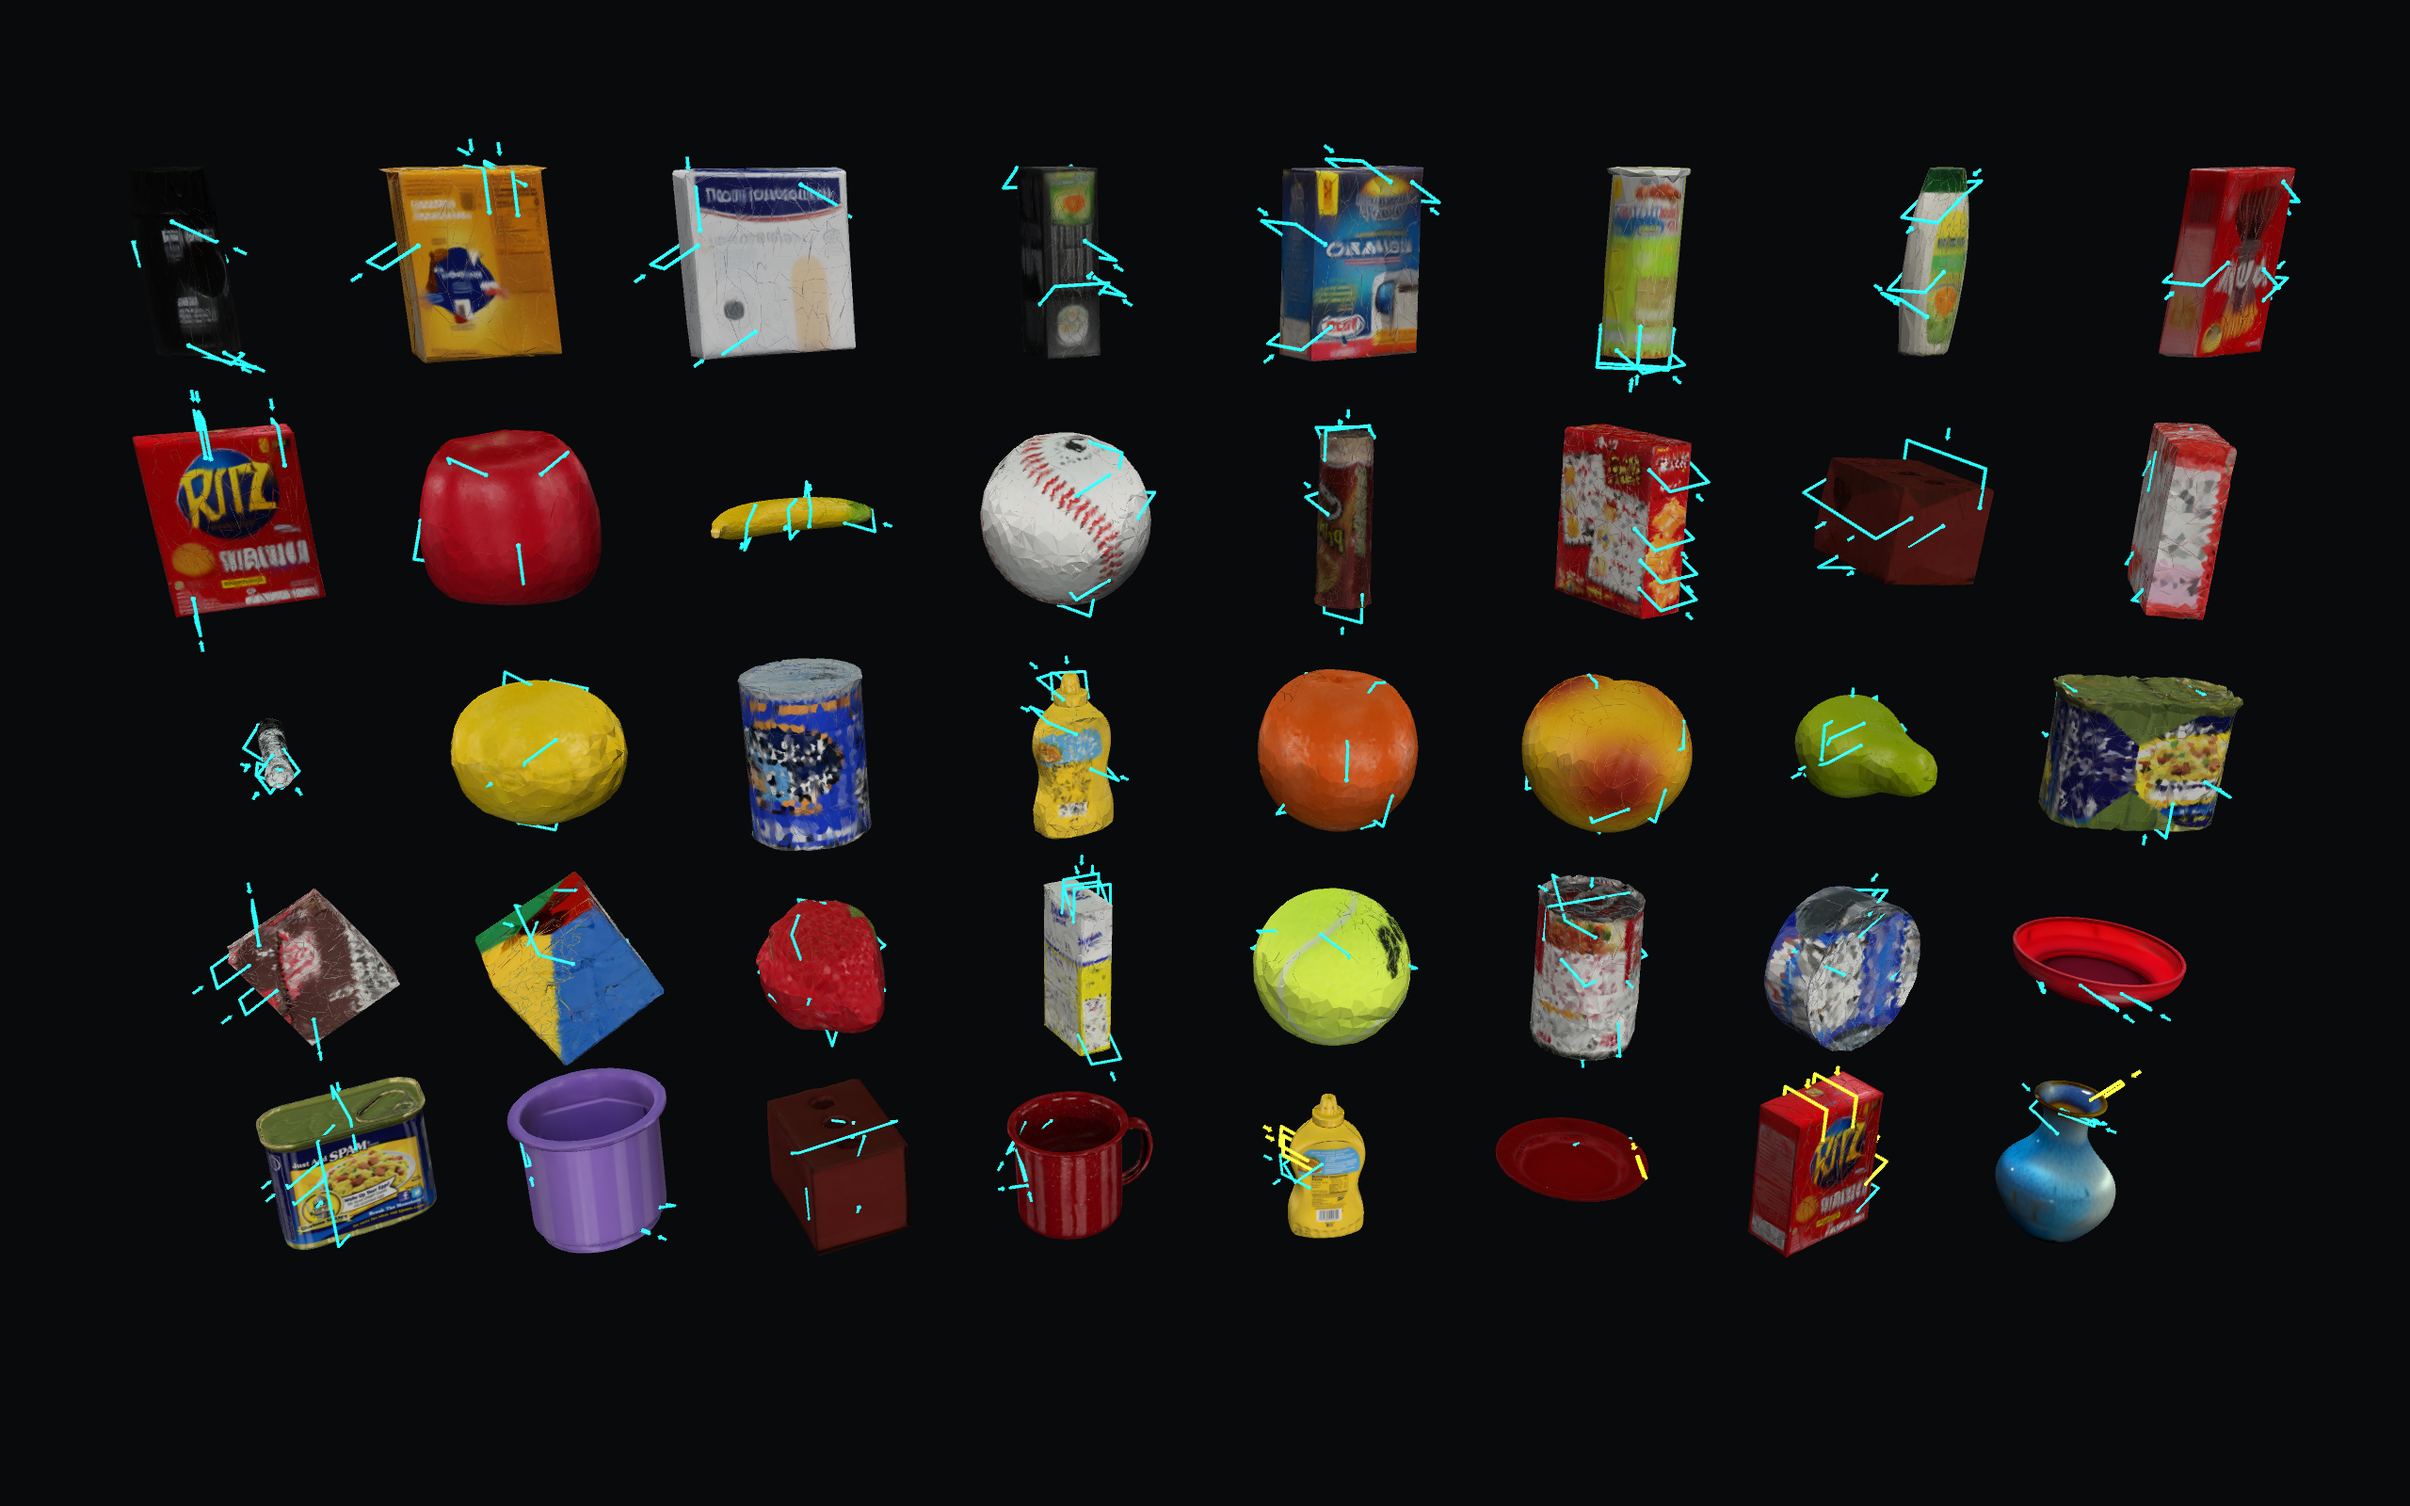
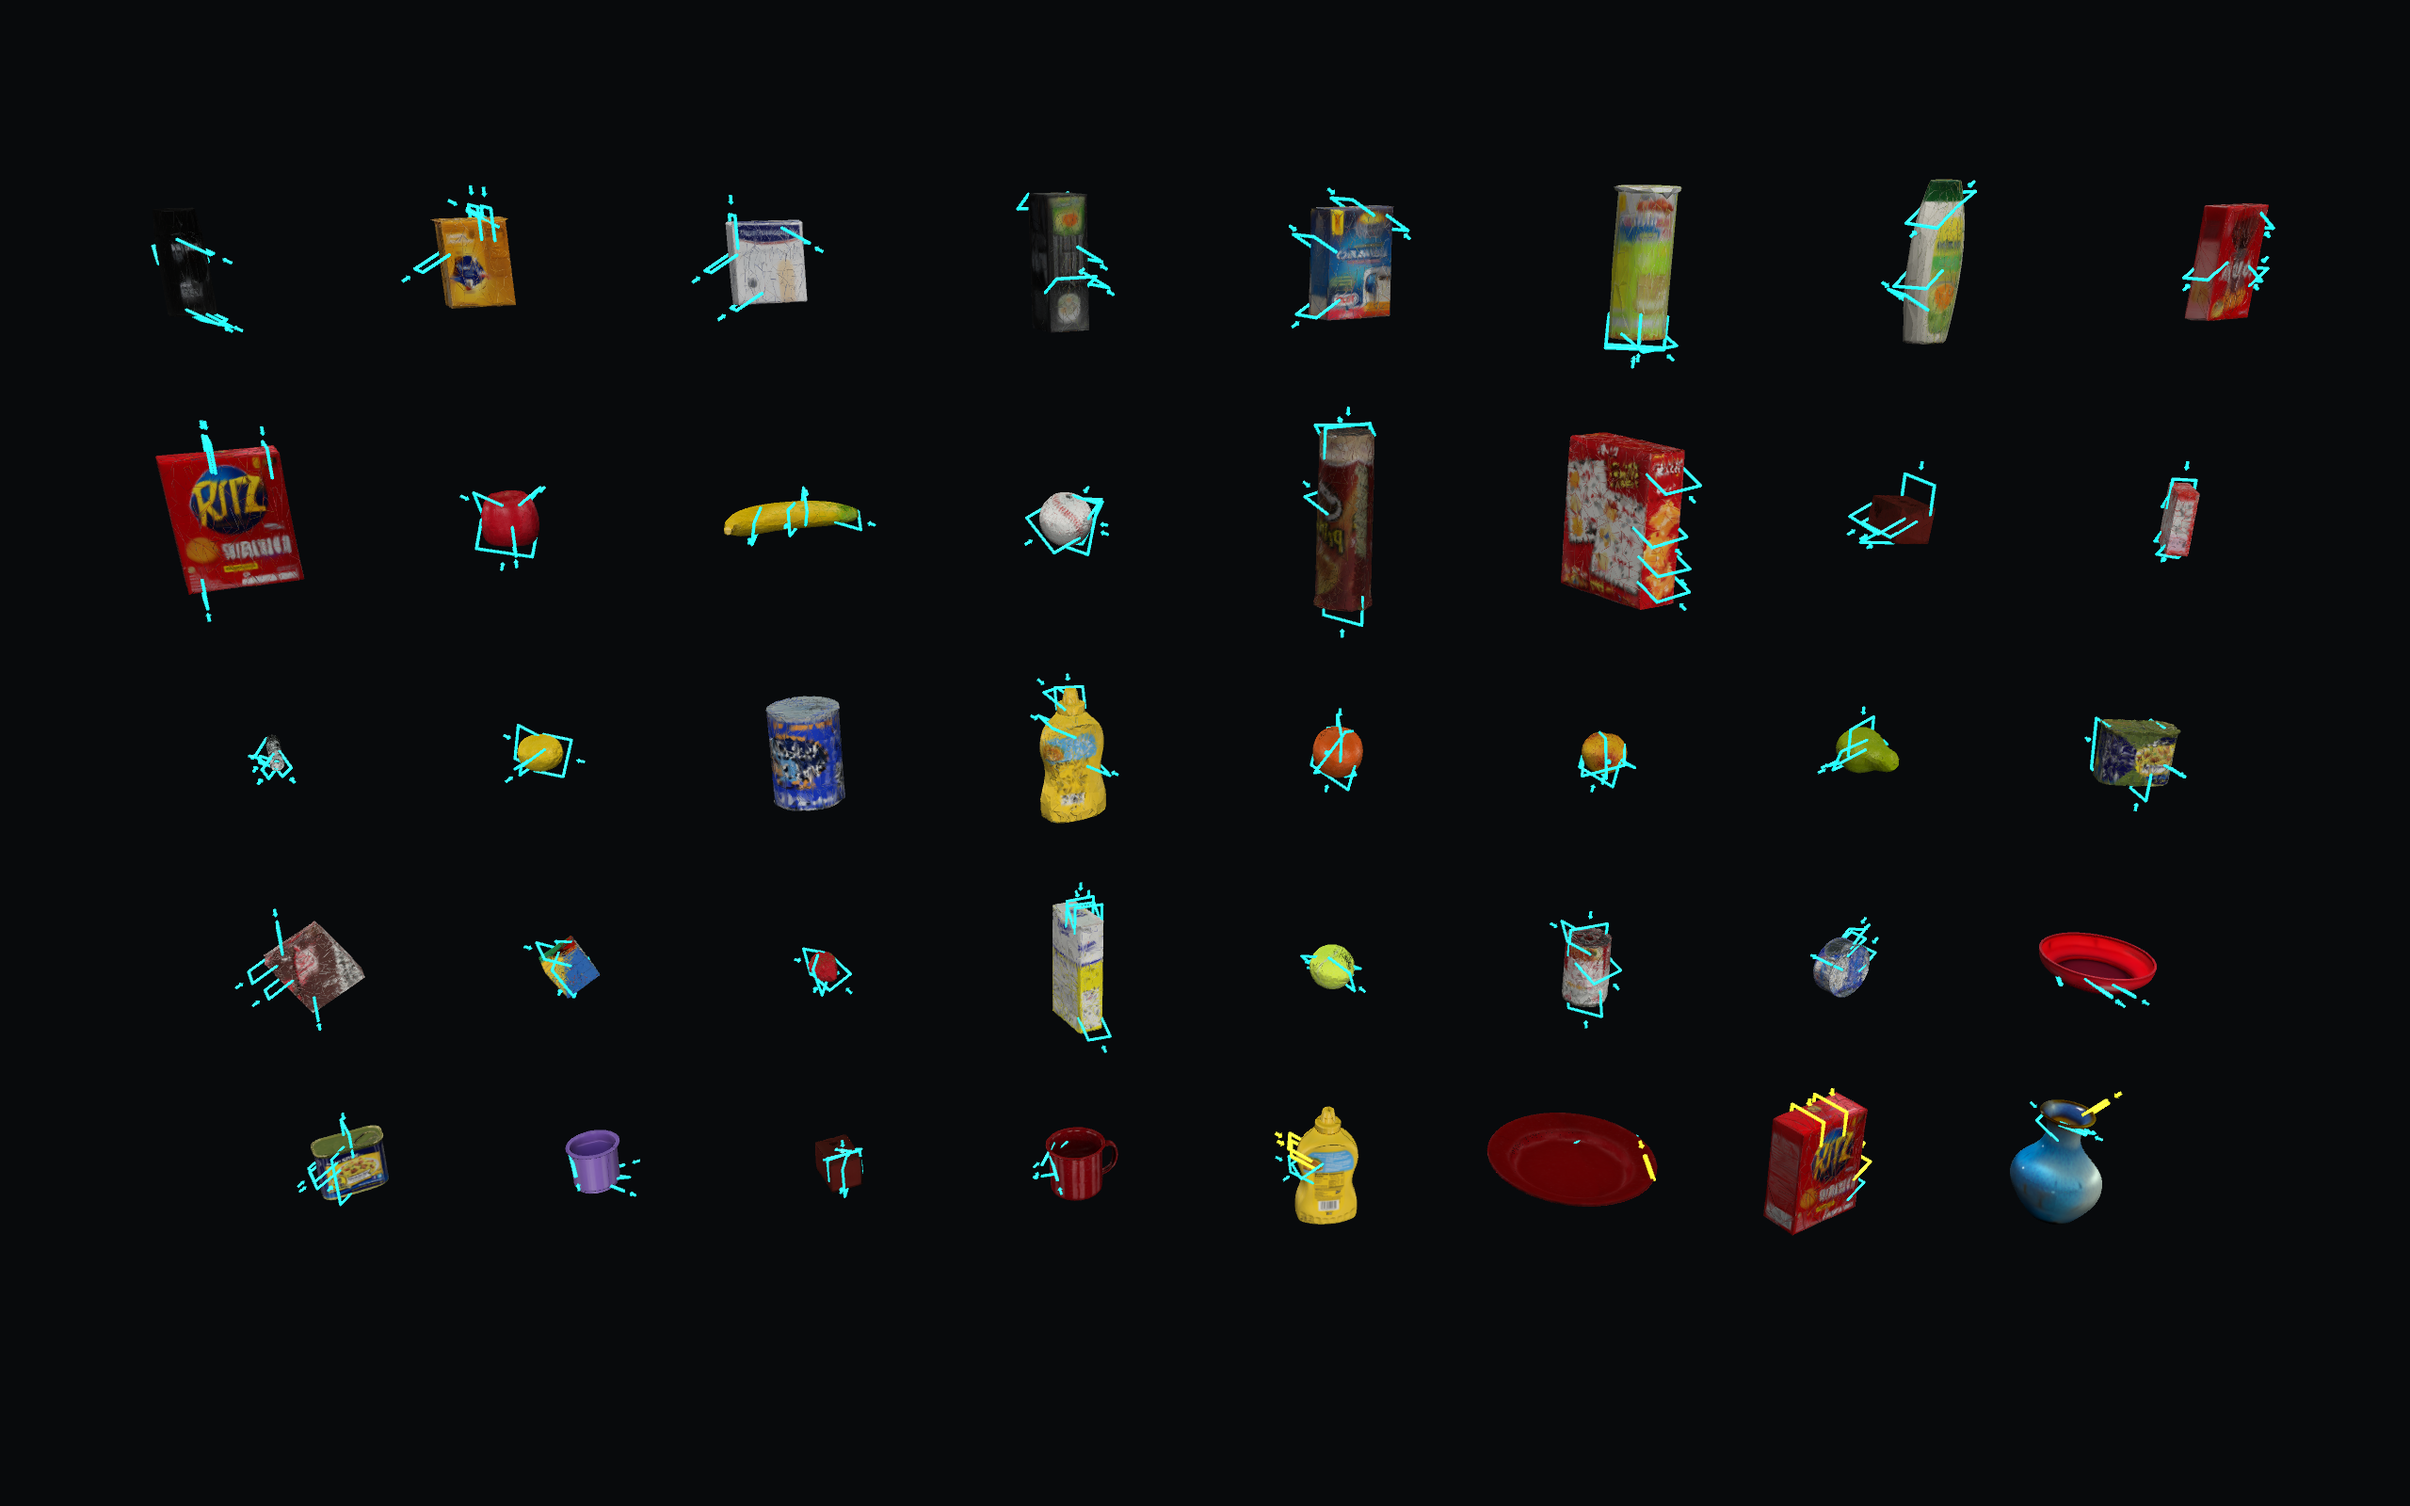
fix: preserve metric gallery scale and enforce Franka opening limits

diff --git a/examples/grasp_gallery.py b/examples/grasp_gallery.py
@@ -34,7 +34,7 @@ from grasp_gallery_assets import (  # noqa: E402
     prepare_item,
     scene_xml,
 )
-from grasp_gallery_sampling import sample_batch, unique_grasps  # noqa: E402
+from grasp_gallery_sampling import FRANKA_MAX_OPENING_M, sample_batch, unique_grasps  # noqa: E402
 
 
 class Gallery:
@@ -42,7 +42,7 @@ class Gallery:
                  jaw_width=.08, visible=32, seed=0, gui=True, grid=False):
         self.items, self.fps, self.seconds, self.grid = items, fps, seconds, grid
         self.positions = grid_layout(len(items)) if grid else np.zeros((len(items), 3))
-        self.batches, self.batch_size, self.jaw_width = batches, batch_size, jaw_width
+        self.batches, self.batch_size, self.jaw_width = batches, batch_size, min(jaw_width, FRANKA_MAX_OPENING_M)
         self.visible, self.seed = visible, seed
         self.model = mj.MjModel.from_xml_string(scene_xml(items, cache, grid=grid))
         self.data = mj.MjData(self.model)
@@ -127,8 +127,8 @@ class Gallery:
                     break
             indices.reverse()
             self.visibility_cache[index] = (grasps, indices)
-        depth = min(.04, float(item.extents.max())*.22)*item.scale
-        stem = min(.025, float(item.extents.max())*.15)*item.scale
+        depth = .04*item.scale
+        stem = .025*item.scale
         for i in indices:
             g = grasps[i]
             pose = np.asarray(g["pose"])
@@ -154,7 +154,7 @@ class Gallery:
                 if scene.ngeom >= scene.maxgeom:
                     return
                 geom = scene.geoms[scene.ngeom]
-                mj.mjv_initGeom(geom, mj.mjtGeom.mjGEOM_SPHERE, np.array([.0032, 0, 0]), point,
+                mj.mjv_initGeom(geom, mj.mjtGeom.mjGEOM_SPHERE, np.array([.002, 0, 0]), point,
                                 np.eye(3).reshape(-1), np.asarray(color, np.float32))
                 geom.emission = 1.
                 geom.category = mj.mjtCatBit.mjCAT_DECOR
@@ -182,6 +182,7 @@ class Gallery:
         return {"asset": str(item.path.relative_to(ROOT)), "label": item.label,
                 "source_extents_m": item.extents.tolist(), "display_scale": item.scale,
                 "unique_candidates": len(self.grasps), "batches": self.completed_batches,
+                "max_opening_m": max((g["width"] for g in self.grasps), default=None),
                 "rotation_degrees": float(np.degrees(self.angle)), "error": error}
 
     def run(self, start=0, once=False):
@@ -286,6 +287,7 @@ class GridGallery(Gallery):
         return {"asset": str(item.path.relative_to(ROOT)), "label": item.label,
                 "source_extents_m": item.extents.tolist(), "display_scale": item.scale,
                 "unique_candidates": len(self.candidates[index]), "batches": self.batch_counts[index],
+                "max_opening_m": max((g["width"] for g in self.candidates[index]), default=None),
                 "rotation_degrees": float(np.degrees(self.angle)), "error": self.errors[index]}
 
     def run(self, start=0, once=False):
@@ -370,9 +372,11 @@ def main():
     parser.add_argument("--snapshot", type=Path)
     parser.add_argument("--cache", type=Path, default=Path(tempfile.gettempdir())/"grasp-sampler-gallery")
     args = parser.parse_args()
-    if any(value <= 0 for value in (args.seconds, args.fps, args.batches, args.batch_size,
+    if any(not np.isfinite(value) or value <= 0 for value in (args.seconds, args.fps, args.batches, args.batch_size,
                                     args.jaw_width, args.visible_grasps)):
         parser.error("Timing, sampling and jaw-width values must be positive")
+    if args.jaw_width > FRANKA_MAX_OPENING_M:
+        parser.error("The Franka gripper cannot open beyond 0.08 m (80 mm)")
     paths = inventory()
     print(f"Preparing {len(paths)} original-color object assets", flush=True)
     items = [prepare_item(path, args.cache) for path in paths]
@@ -425,7 +429,8 @@ def main():
         if args.report:
             args.report.parent.mkdir(parents=True, exist_ok=True)
             args.report.write_text(json.dumps({"assets": gallery.records, "inventory_count": len(items),
-                "jaw_width_m": args.jaw_width, "physics_execution": False, "layout": args.layout,
+                "jaw_width_m": args.jaw_width, "franka_max_opening_m": FRANKA_MAX_OPENING_M,
+                "physics_execution": False, "layout": args.layout,
                 "scene_update_hz": ((len(gallery.frame_times)-1)/(gallery.frame_times[-1]-gallery.frame_times[0])
                                     if len(gallery.frame_times) > 1 else None),
                 "candidate_colors": {"violet": "primitive / OBB proposals", "cyan": "antipodal candidates",

diff --git a/tests/test_grasp_gallery.py b/tests/test_grasp_gallery.py
@@ -77,7 +77,7 @@ def test_grid_keeps_all_40_objects_visible_and_grasps_rotate_with_them(tmp_path,
     gallery.decorate(scene)
     assert scene.ngeom == 6
     center = gallery.data.mocap_pos[gallery.mocaps[7]].copy()
-    depth = min(.04, item.extents.max()*.22)*item.scale
+    depth = .04*item.scale
     np.testing.assert_allclose(scene.geoms[0].pos,
                                center+[0, .03*item.scale/2, -depth/2], atol=1e-7)
 
@@ -99,3 +99,36 @@ def test_restored_compact_appearances_are_colored_and_keep_geometry(monkeypatch)
         visual = trimesh.load(restored.with_suffix(".obj"), force="mesh", process=False)
         np.testing.assert_allclose(visual.bounds, original.bounds, atol=2e-7)
         assert len(visual.faces) == len(original.faces)
+
+
+def test_franka_hard_limit_filters_oversized_or_invalid_generator_outputs(tmp_path, monkeypatch):
+    from grasp_sampler import Grasp
+
+    _, sampling = modules(monkeypatch)
+    path = tmp_path/"box.glb"
+    trimesh.creation.box(extents=[.04, .05, .06]).export(path)
+    widths = [.04, .08, .08001, .12, float("nan"), -.01]
+    configured_limits = []
+
+    def generated(self, *args, **kwargs):
+        configured_limits.append(self.config.gripper_max_width)
+        return [Grasp(np.eye(4), "antipodal", width) for width in widths]
+
+    monkeypatch.setattr(sampling.GraspSampler, "generate", generated)
+    batch = sampling.sample_batch(str(path), 1, 32, .20, 42)
+    assert [g["width"] for g in batch] == [.04, .08]
+    batch = sampling.sample_batch(str(path), 1, 32, .05, 42)
+    assert [g["width"] for g in batch] == [.04]
+    assert configured_limits == [.08, .05]
+
+
+def test_display_keeps_source_metric_sizes_instead_of_normalizing_each_object(tmp_path, monkeypatch):
+    assets, _ = modules(monkeypatch)
+    for label, size in (("small", [.03, .04, .05]), ("large", [.12, .16, .20])):
+        path = tmp_path/(label+".glb")
+        trimesh.creation.box(extents=size).export(path)
+        item = assets.prepare_item(path, tmp_path/"cache")
+        assert item.scale == 1.
+        np.testing.assert_allclose(item.extents, [size[0], size[2], size[1]], atol=1e-7)
+        visual = trimesh.load(item.mesh_path, force="mesh", process=False)
+        np.testing.assert_allclose(visual.extents, item.extents, atol=1e-7)

diff --git a/examples/grasp_gallery_sampling.py b/examples/grasp_gallery_sampling.py
@@ -9,6 +9,8 @@ import trimesh
 
 from grasp_sampler import GraspConfig, GraspSampler, load_mesh
 
+FRANKA_MAX_OPENING_M = .08
+
 
 @lru_cache(maxsize=40)
 def sampling_mesh(path):
@@ -25,17 +27,21 @@ def sampling_mesh(path):
 
 
 def sample_batch(path, batch, batch_size, jaw_width, seed):
+    if not np.isfinite(jaw_width) or jaw_width <= 0:
+        raise ValueError("Jaw width must be finite and positive")
+    limit = min(float(jaw_width), FRANKA_MAX_OPENING_M)
     obj = sampling_mesh(path)
     concave = Path(path).parent.name == "household" and Path(path).stem in {"mug", "cup", "plate", "bowl", "vase"}
     config = GraspConfig(directed=False, antipodal_samples=batch_size,
                          antipodal_rolls=6, antipodal_max_grasps=24,
                          antipodal_min_width=.001 if concave else .005,
-                         gripper_max_width=jaw_width,
+                         gripper_max_width=limit,
                          contact_geometry_policy="mesh" if concave else "auto")
     sampler = GraspSampler(config)
     grasps = sampler.generate(obj, methods=("primitives", "obb_face") if batch == 0 else ("antipodal",),
                               seed=seed+batch*7919)
-    return [{"pose": g.pose.tolist(), "width": float(g.width), "kind": g.kind} for g in grasps]
+    return [{"pose": g.pose.tolist(), "width": float(g.width), "kind": g.kind} for g in grasps
+            if np.isfinite(g.width) and 0 < g.width <= limit]
 
 
 def unique_grasps(grasps):

diff --git a/examples/grasp_gallery_assets.py b/examples/grasp_gallery_assets.py
@@ -88,7 +88,7 @@ def prepare_item(path, cache):
               "Mustard": "Mustard Bottle", "Vase": "Blue Vase"}
     return GalleryItem(path, labels.get(label, label),
                        "SCANNED MESH" if path.parent.name == "household" else "COMPACT MESH",
-                       obj_path, png_path, obj.extents, .235/float(obj.extents.max()))
+                       obj_path, png_path, obj.extents, 1.)
 
 
 def grid_layout(count, columns=8, rows=5):

diff --git a/docs/visualization.md b/docs/visualization.md
@@ -53,8 +53,9 @@ appearances are retained. See the
 [appearance provenance](https://github.com/ShirakuGIT/grasp-sampler/blob/feat/planner-integrations/assets/gallery_colors/README.md).
 Lighting is neutral, and objects receive no palette tint.
 
-Object display sizes are normalized for the grid. Sampling still uses original
-metric geometry and an **80 mm jaw limit**, configurable with `--jaw-width`.
+Objects, grasp TCPs and jaw openings share the **same original metre scale**.
+There is no per-object size normalization. The Franka gripper has a hard
+**80 mm maximum opening**; `--jaw-width` can request a smaller opening.
 The larger master-chef can has no feasible candidates at that width in the saved
 [40-asset audit](results/grasp-gallery-audit.json); that cell has no grasp glyphs.
 These are geometric grasp proposals, not robot IK, collision-screened motion
